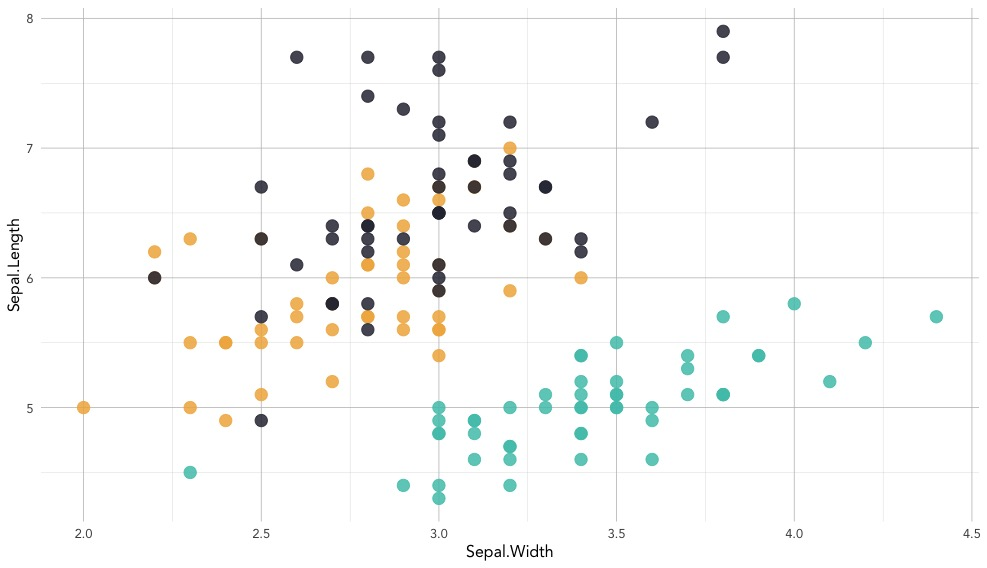
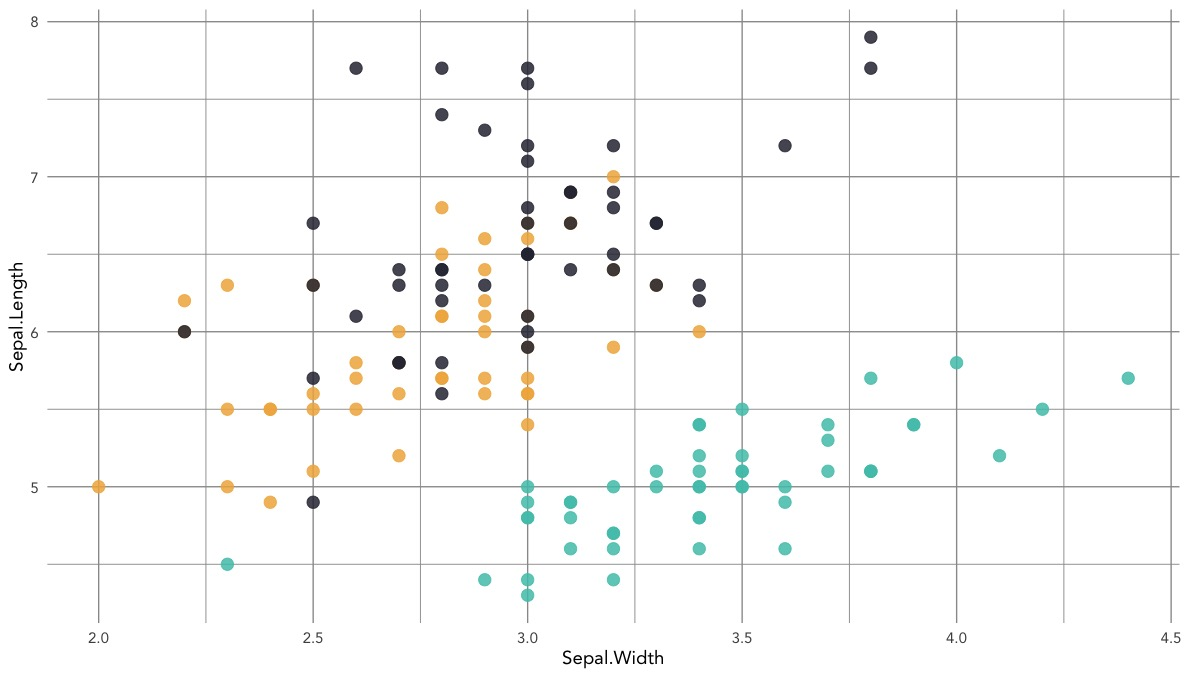
update readme

diff --git a/README.md b/README.md
@@ -22,7 +22,7 @@ library(ggplot2)
 ggplot(iris, aes(Sepal.Width, Sepal.Length)) +
    geom_point(size = 4, alpha = 0.85, aes(color = Species), show.legend = FALSE) +
    scale_color_fishpals("greensunfish") +
-   theme_report()
+   theme_pres()
    
 ```
 
